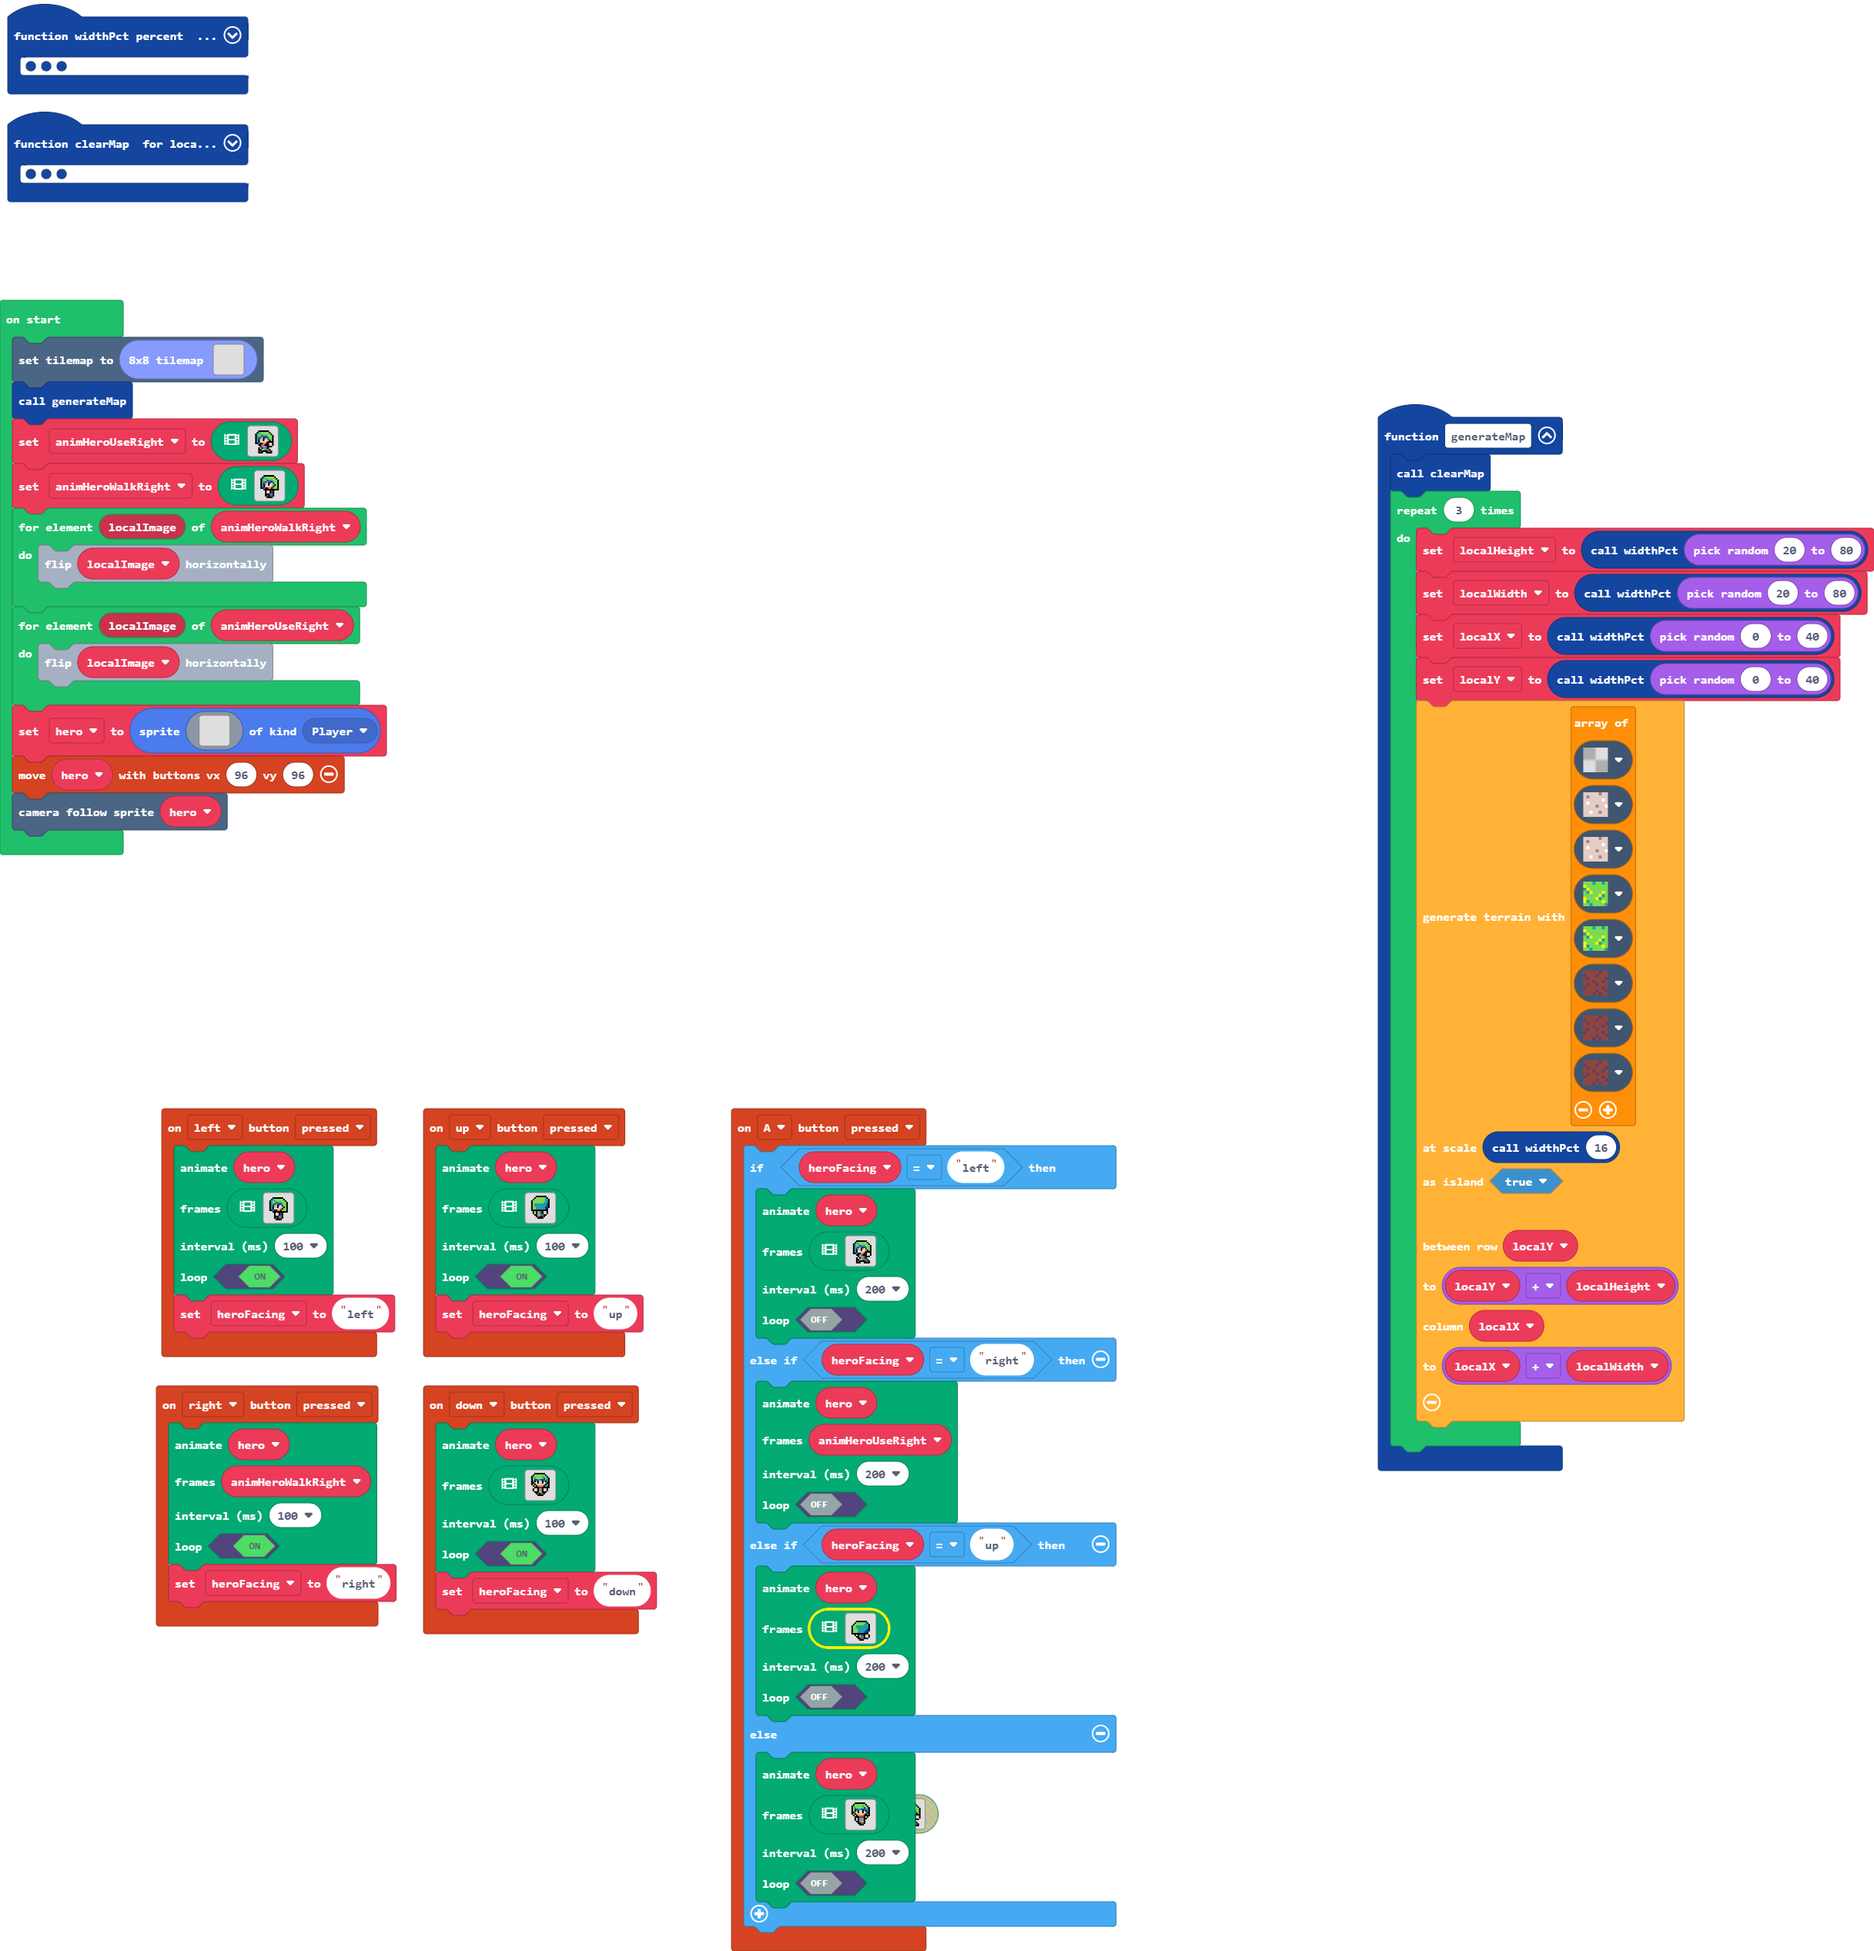
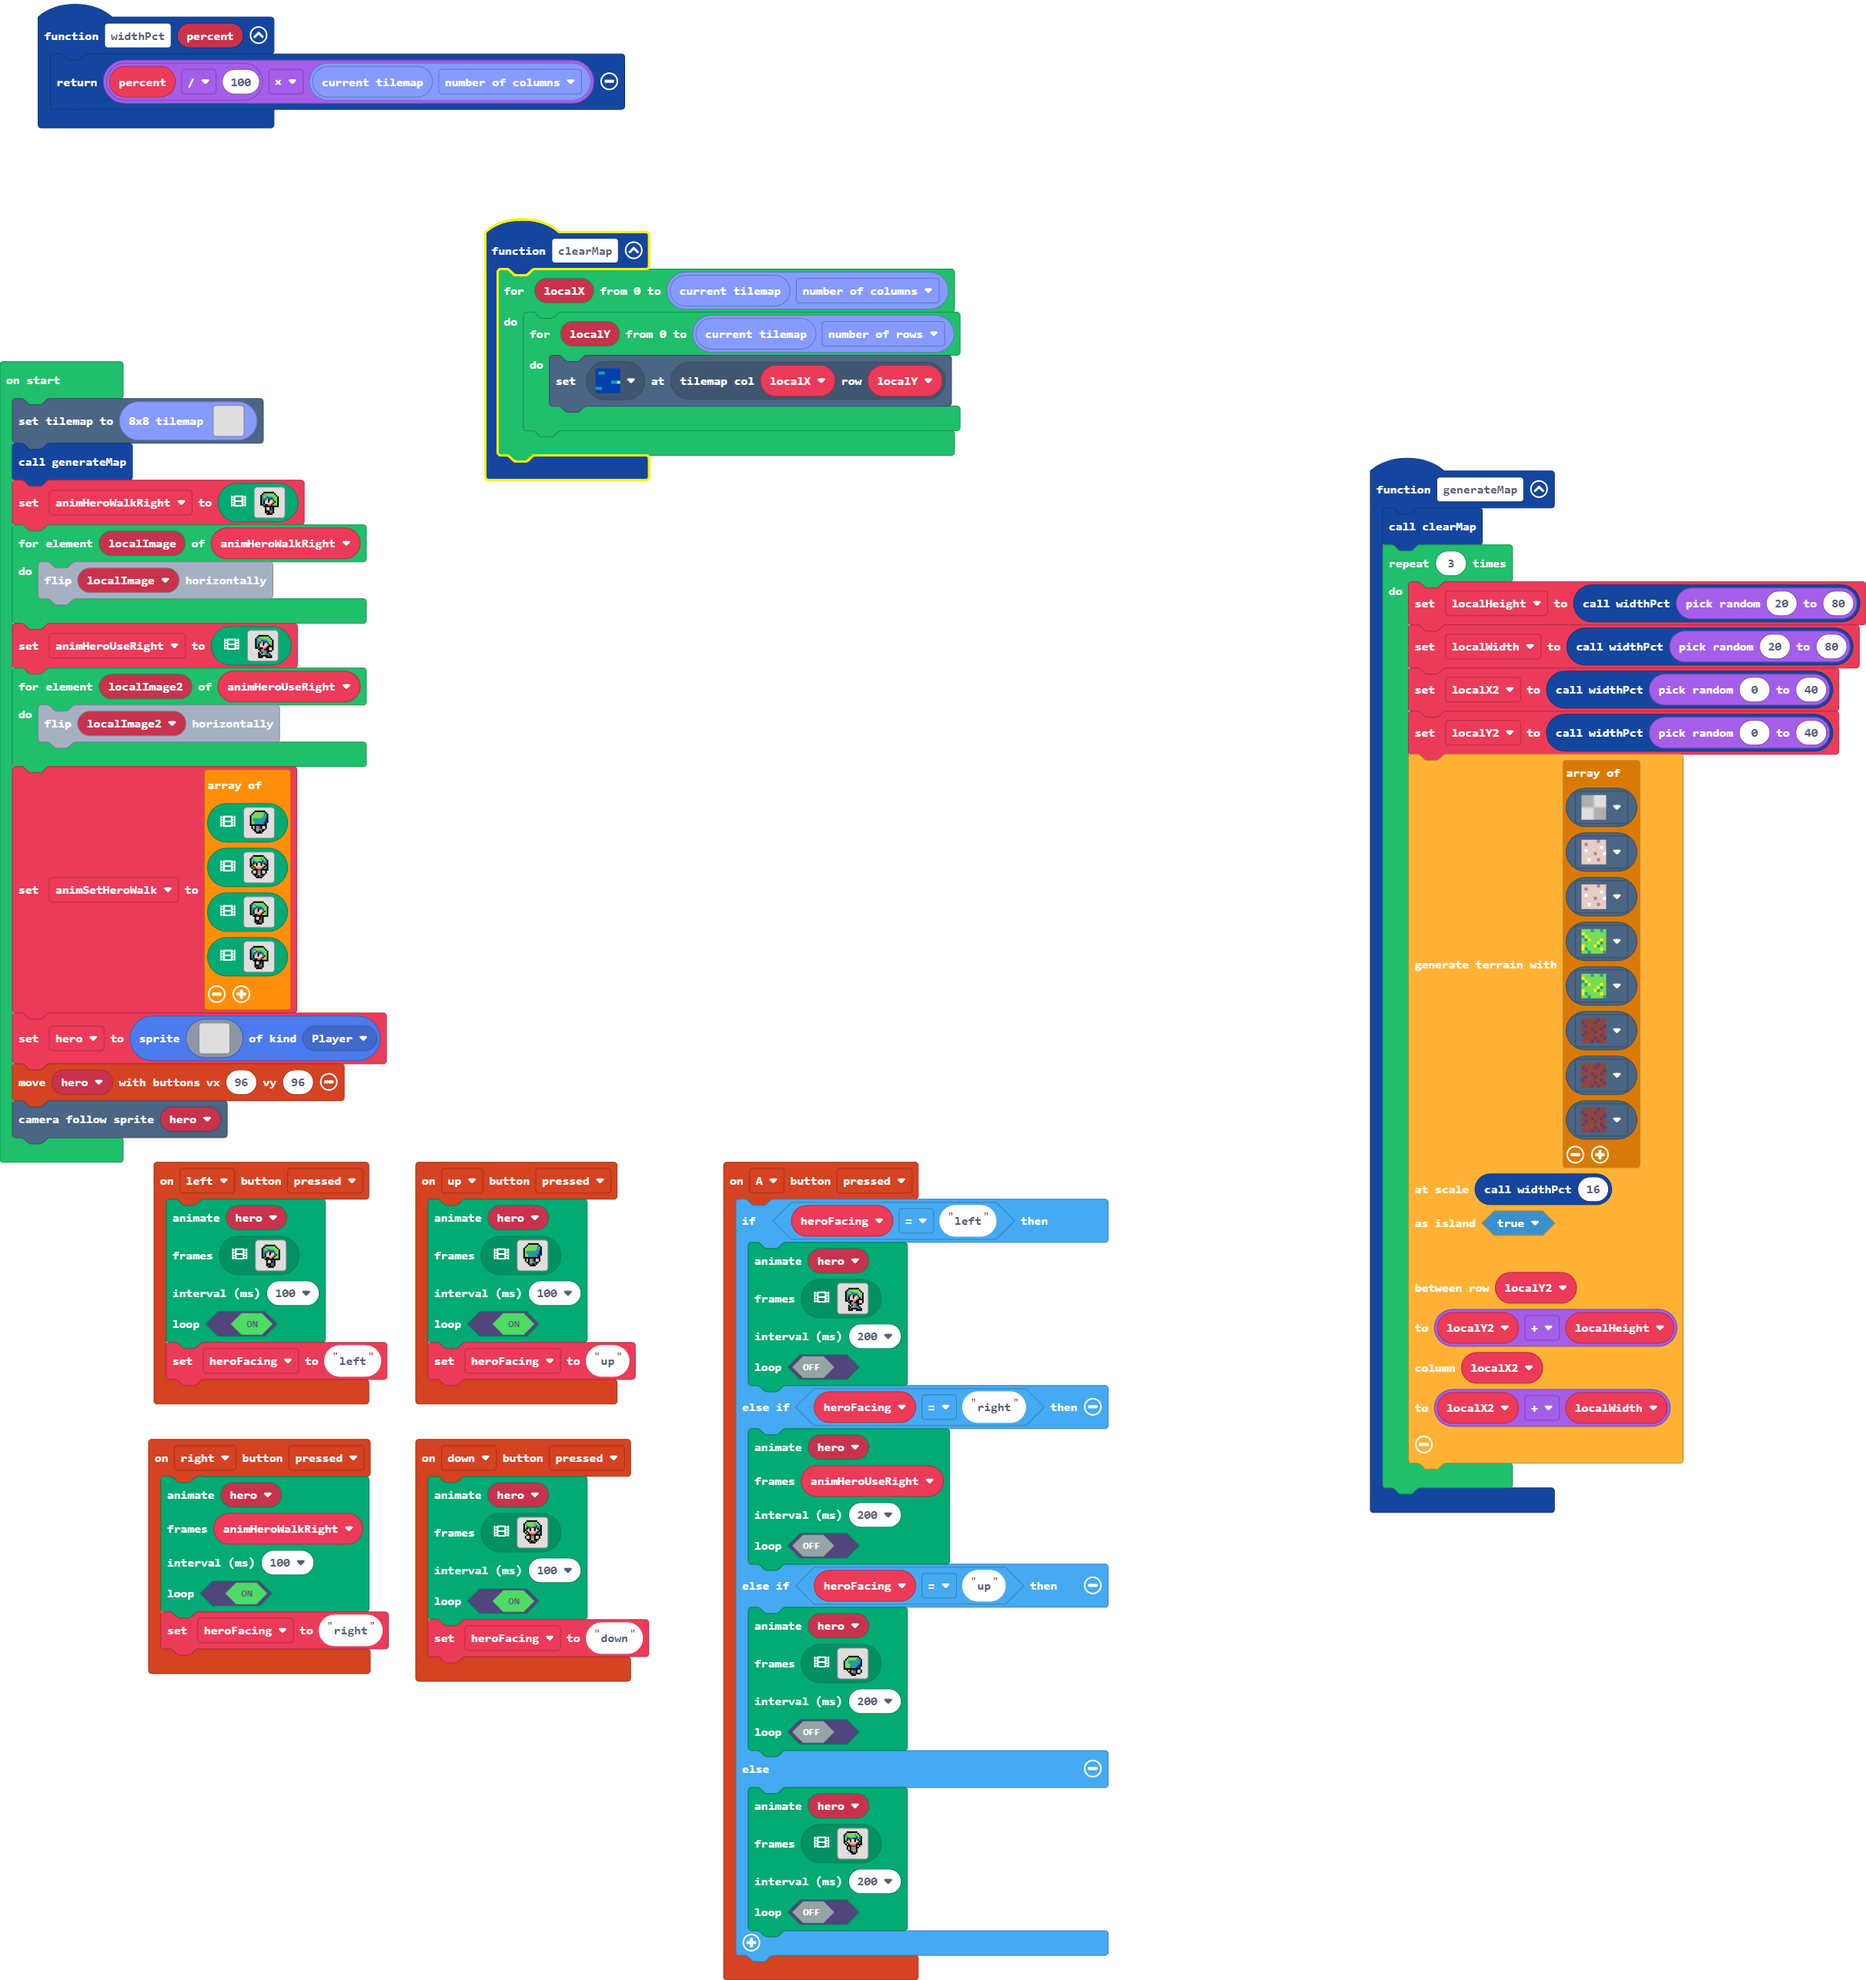
moving to js blocks development

diff --git a/main.ts b/main.ts
@@ -67,8 +67,8 @@ function generateMap () {
     for (let index = 0; index < 3; index++) {
         localHeight = widthPct(randint(20, 80))
         localWidth = widthPct(randint(20, 80))
-        localX = widthPct(randint(0, 40))
-        localY = widthPct(randint(0, 40))
+        localX2 = widthPct(randint(0, 40))
+        localY2 = widthPct(randint(0, 40))
         mapGen.generateTerrain(
         [
         assets.tile`transparency8`,
@@ -82,10 +82,10 @@ function generateMap () {
         ],
         widthPct(16),
         true,
-        localY,
-        localY + localHeight,
-        localX,
-        localX + localWidth
+        localY2,
+        localY2 + localHeight,
+        localX2,
+        localX2 + localWidth
         )
     }
 }
@@ -105,24 +105,30 @@ function clearMap () {
         }
     }
 }
-let localY = 0
-let localX = 0
+let localY2 = 0
+let localX2 = 0
 let localWidth = 0
 let localHeight = 0
 let heroFacing = ""
 let hero: Sprite = null
-let animHeroWalkRight: Image[] = []
 let animHeroUseRight: Image[] = []
+let animHeroWalkRight: Image[] = []
 tiles.setCurrentTilemap(tileUtil.createSmallMap(tilemap`tilemap-tiny-island`))
 generateMap()
-animHeroUseRight = assets.animation`hero-use-left`
 animHeroWalkRight = assets.animation`hero-walk-left`
 for (let localImage of animHeroWalkRight) {
     localImage.flipX()
 }
-for (let localImage of animHeroUseRight) {
-    localImage.flipX()
+animHeroUseRight = assets.animation`hero-use-left`
+for (let localImage2 of animHeroUseRight) {
+    localImage2.flipX()
 }
+let animSetHeroWalk = [
+assets.animation`hero-walk-up`,
+assets.animation`hero-walk-down`,
+assets.animation`hero-walk-left`,
+assets.animation`hero-walk-left`
+]
 hero = sprites.create(assets.image`blank`, SpriteKind.Player)
 controller.moveSprite(hero, 96, 96)
 scene.cameraFollowSprite(hero)

diff --git a/images.g.ts b/images.g.ts
@@ -7,6 +7,17 @@ namespace myImages {
             case "blank":return img`
 . 
 `;
+            case "image2":
+            case "item-wood-sword":return img`
+. . . . . . . . 
+. . . . f f . . 
+. f f f f e f f 
+f d d d d e d f 
+f e e e e c e f 
+. f f f f c f f 
+. . . . f f . . 
+. . . . . . . . 
+`;
         }
         return null;
     })
